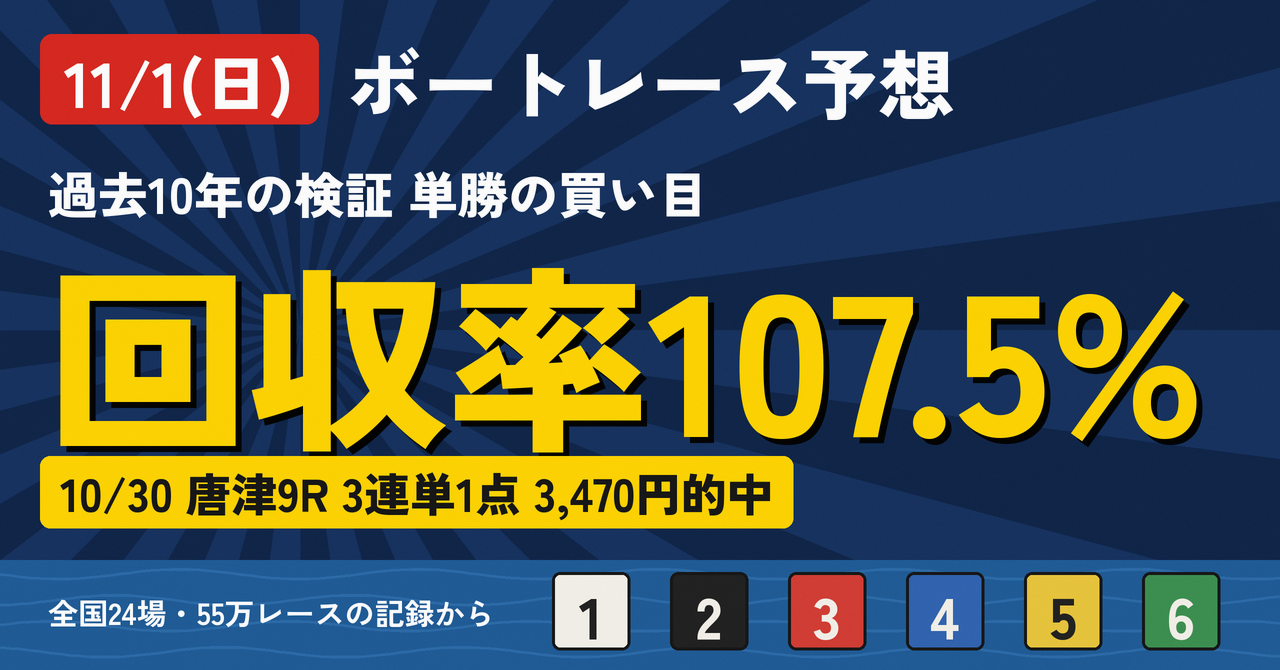
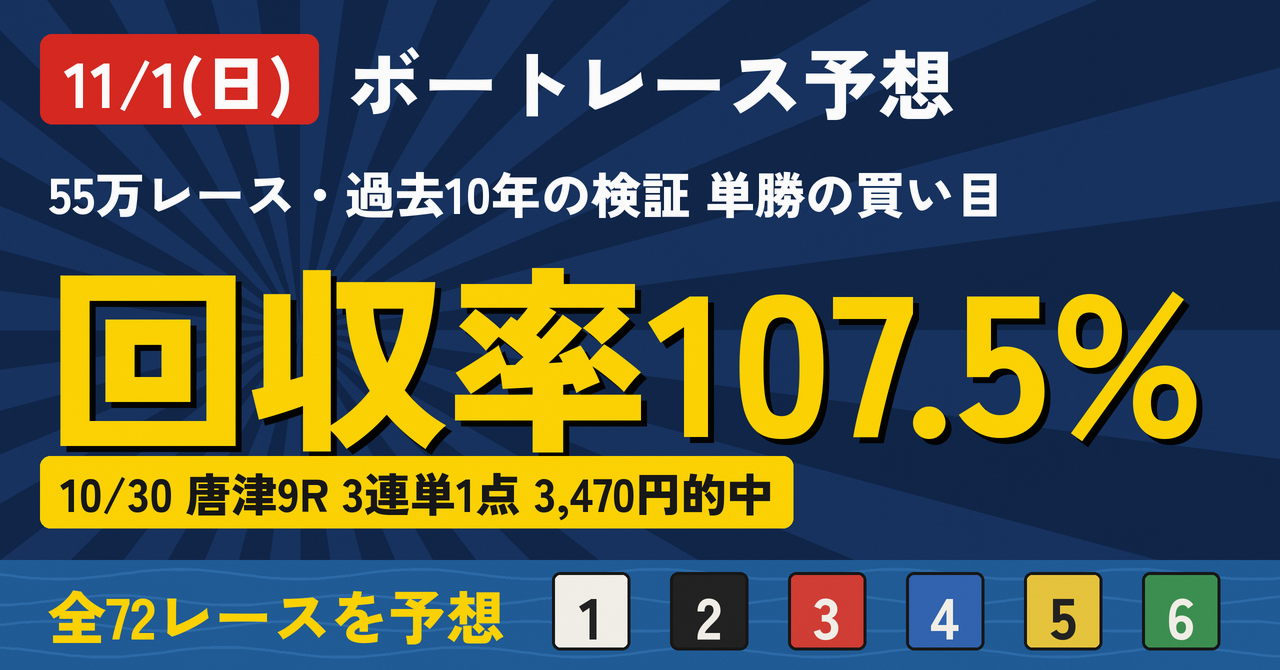
hot スタイル: その日に予想するレース数を大きく表示 (--races)
Claude-Session: https://claude.ai/code/session_0127Bh7G4KZpBH8TZD13h1MZ

Changed region(s): [[0.0312, 0.2388, 0.7812, 0.3284], [0.0312, 0.8657, 0.4062, 0.9851]]

diff --git a/note/design/make_header.py b/note/design/make_header.py
@@ -274,7 +274,7 @@ def style_race(day, title, sub):
     return finish(img, W, H, grain=0.05, seed=dd)
 
 
-def style_hot(day, title, sub):
+def style_hot(day, title, sub, races=None):
     """目を引く版。紺の水面に放射状の光、黄色の大きな回収率、日付の札。
 
     数字は検証どおりのものだけを使う（sub は「過去10年 単勝の買い目」の後ろに出す実績の一言）。
@@ -305,7 +305,11 @@ def style_hot(day, title, sub):
                             fill=WAKU[i], outline=ink, width=3 * S)
         text(d, (x + tile / 2, y + tile / 2 + 3), str(i + 1), font("ZenKakuGothicNew-Black.ttf", 58),
              WAKU_TEXT[i], anchor="mm")
-    text(d, (48, wy + 52), "全国24場・55万レースの記録から", font("ZenKakuGothicNew-Bold.ttf", 30), white, anchor="lm")
+    if races:
+        rs = f"全{races}レースを予想"
+        text(d, (48, wy + 54), rs, fit_font(d, rs, "ZenKakuGothicNew-Black.ttf", 60, x0 - 80), yel, anchor="lm")
+    else:
+        text(d, (48, wy + 52), "全国24場・55万レースの記録から", font("ZenKakuGothicNew-Bold.ttf", 30), white, anchor="lm")
 
     # 左上: 日付の札（赤）
     date_s = f"{m}/{dd}({yb})"
@@ -318,7 +322,7 @@ def style_hot(day, title, sub):
          fit_font(d, head, "ZenKakuGothicNew-Black.ttf", 76, W - (40 + tw + 48 + 28) - 40), white, anchor="lm")
 
     # 主役: 回収率
-    lab = "過去10年の検証 単勝の買い目"
+    lab = "55万レース・過去10年の検証 単勝の買い目"
     text(d, (48, 192), lab, font("ZenKakuGothicNew-Black.ttf", 50), white, anchor="lm")
     big = "回収率107.5%"
     fb = fit_font(d, big, "ZenKakuGothicNew-Black.ttf", 200, W - 96)
@@ -397,6 +401,7 @@ def main():
     ap.add_argument("--style", choices=list(STYLES) + ["all"], default="all")
     ap.add_argument("--title", default=DEFAULT_TITLE, help="改行は \\n")
     ap.add_argument("--sub", default="", help="小見出し（例: 本日の注目 12レース）")
+    ap.add_argument("--races", type=int, help="その日に予想するレース数（hot スタイルで大きく出す）")
     ap.add_argument("--icons", action="store_true", help="アイコンだけ作る")
     a = ap.parse_args()
     OUT.mkdir(exist_ok=True)
@@ -406,7 +411,8 @@ def main():
         title = a.title.replace("\\n", "\n")
         for name in (STYLES if a.style == "all" else [a.style]):
             p = OUT / f"header_{name}_{day:%Y%m%d}.png"
-            STYLES[name](day, title, a.sub).save(p, optimize=True)
+            img = STYLES[name](day, title, a.sub, a.races) if name == "hot" else STYLES[name](day, title, a.sub)
+            img.save(p, optimize=True)
             print(p)
     if a.icons or a.style == "all":
         for name, img in icons().items():
